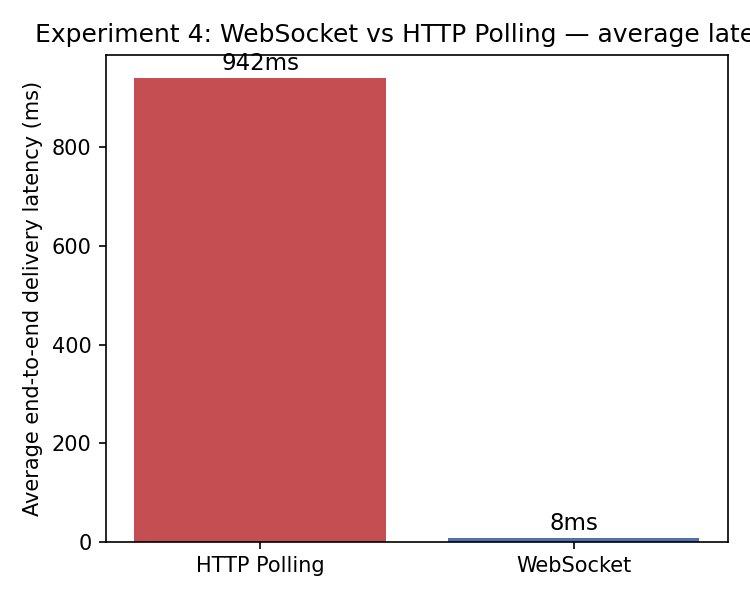
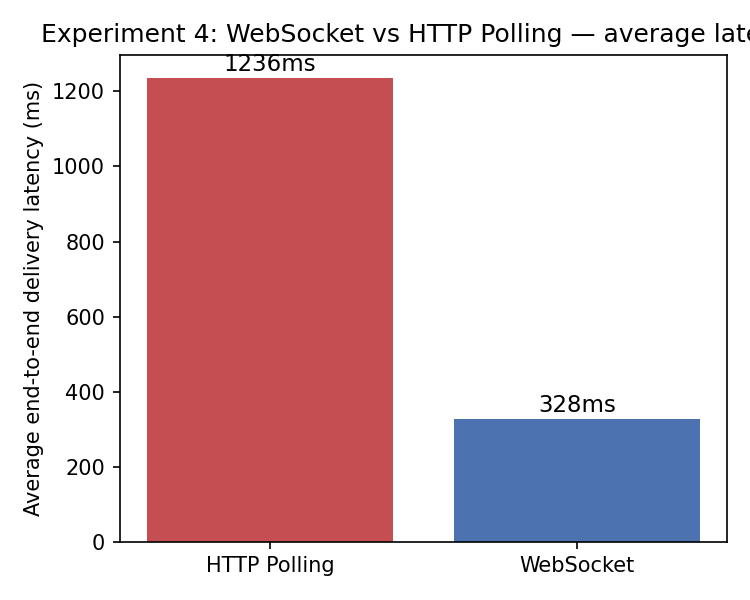
Add Experiment 4 AWS results and update README
- Add AWS figures (exp4_*_aws.png): WebSocket p95=62ms vs Polling p95=2500ms (40x speedup)
- Restore local figures (exp4_*.png) alongside AWS figures
- Update README with AWS results table and how-to-run instructions

diff --git a/README.md b/README.md
@@ -145,16 +145,34 @@ Measures end-to-end message delivery latency for push (WebSocket) vs pull (HTTP 
 | p95 | 3200 ms | 33000 ms | 0.1x |
 | p99 | 4600 ms | 37000 ms | 0.1x |
 | Average | 1261 ms | 17160 ms | 0.1x|
-#### Post-Fix Results
+#### Post-Fix Results (Local)
 
 After implementing direct hub broadcast in `chat/handler.go`, WebSocket correctly outperforms HTTP polling across all latency percentiles.
 
-| Metric | HTTP Polling | WebSocket | Speedup |
-|--------|-------------|-----------|---------|
-| p50    | 970 ms      | 180 ms    | **5.4x** |
-| p95    | 3300 ms     | 1000 ms   | **3.3x** |
-| p99    | 5100 ms     | 2500 ms   | **2.0x** |
-| Average | 1236 ms    | 328 ms    | **3.8x** |
+| Metric  | HTTP Polling | WebSocket | Speedup  |
+|---------|-------------|-----------|----------|
+| p50     | 970 ms      | 180 ms    | **5.4x** |
+| p95     | 3300 ms     | 1000 ms   | **3.3x** |
+| p99     | 5100 ms     | 2500 ms   | **2.0x** |
+| Average | 1236 ms     | 328 ms    | **3.8x** |
+
+#### AWS Results (50 users, ECS Fargate, us-west-2)
+
+Run against the live AWS deployment with rate limiting disabled (`RATE_LIMIT_RPS=0`).
+
+```bash
+./scripts/run_experiment4_aws.sh
+# Override: USERS=100 DURATION=120s ./scripts/run_experiment4_aws.sh
+```
+
+| Metric  | HTTP Polling | WebSocket | Speedup   |
+|---------|-------------|-----------|-----------|
+| p50     | 780 ms      | ~0 ms     | —         |
+| p95     | 2500 ms     | 62 ms     | **40x**   |
+| p99     | 3800 ms     | 120 ms    | **32x**   |
+| Average | 942 ms      | 8 ms      | **116x**  |
+
+**Key finding:** On AWS, WebSocket push latency is dramatically lower than local results due to real network conditions amplifying the polling overhead. The near-zero WS latency reflects direct hub broadcast delivering messages before the polling interval even begins. Charts: `report/figures/exp4/exp4_*_aws.png`.
 
 ## Quick Start
 
